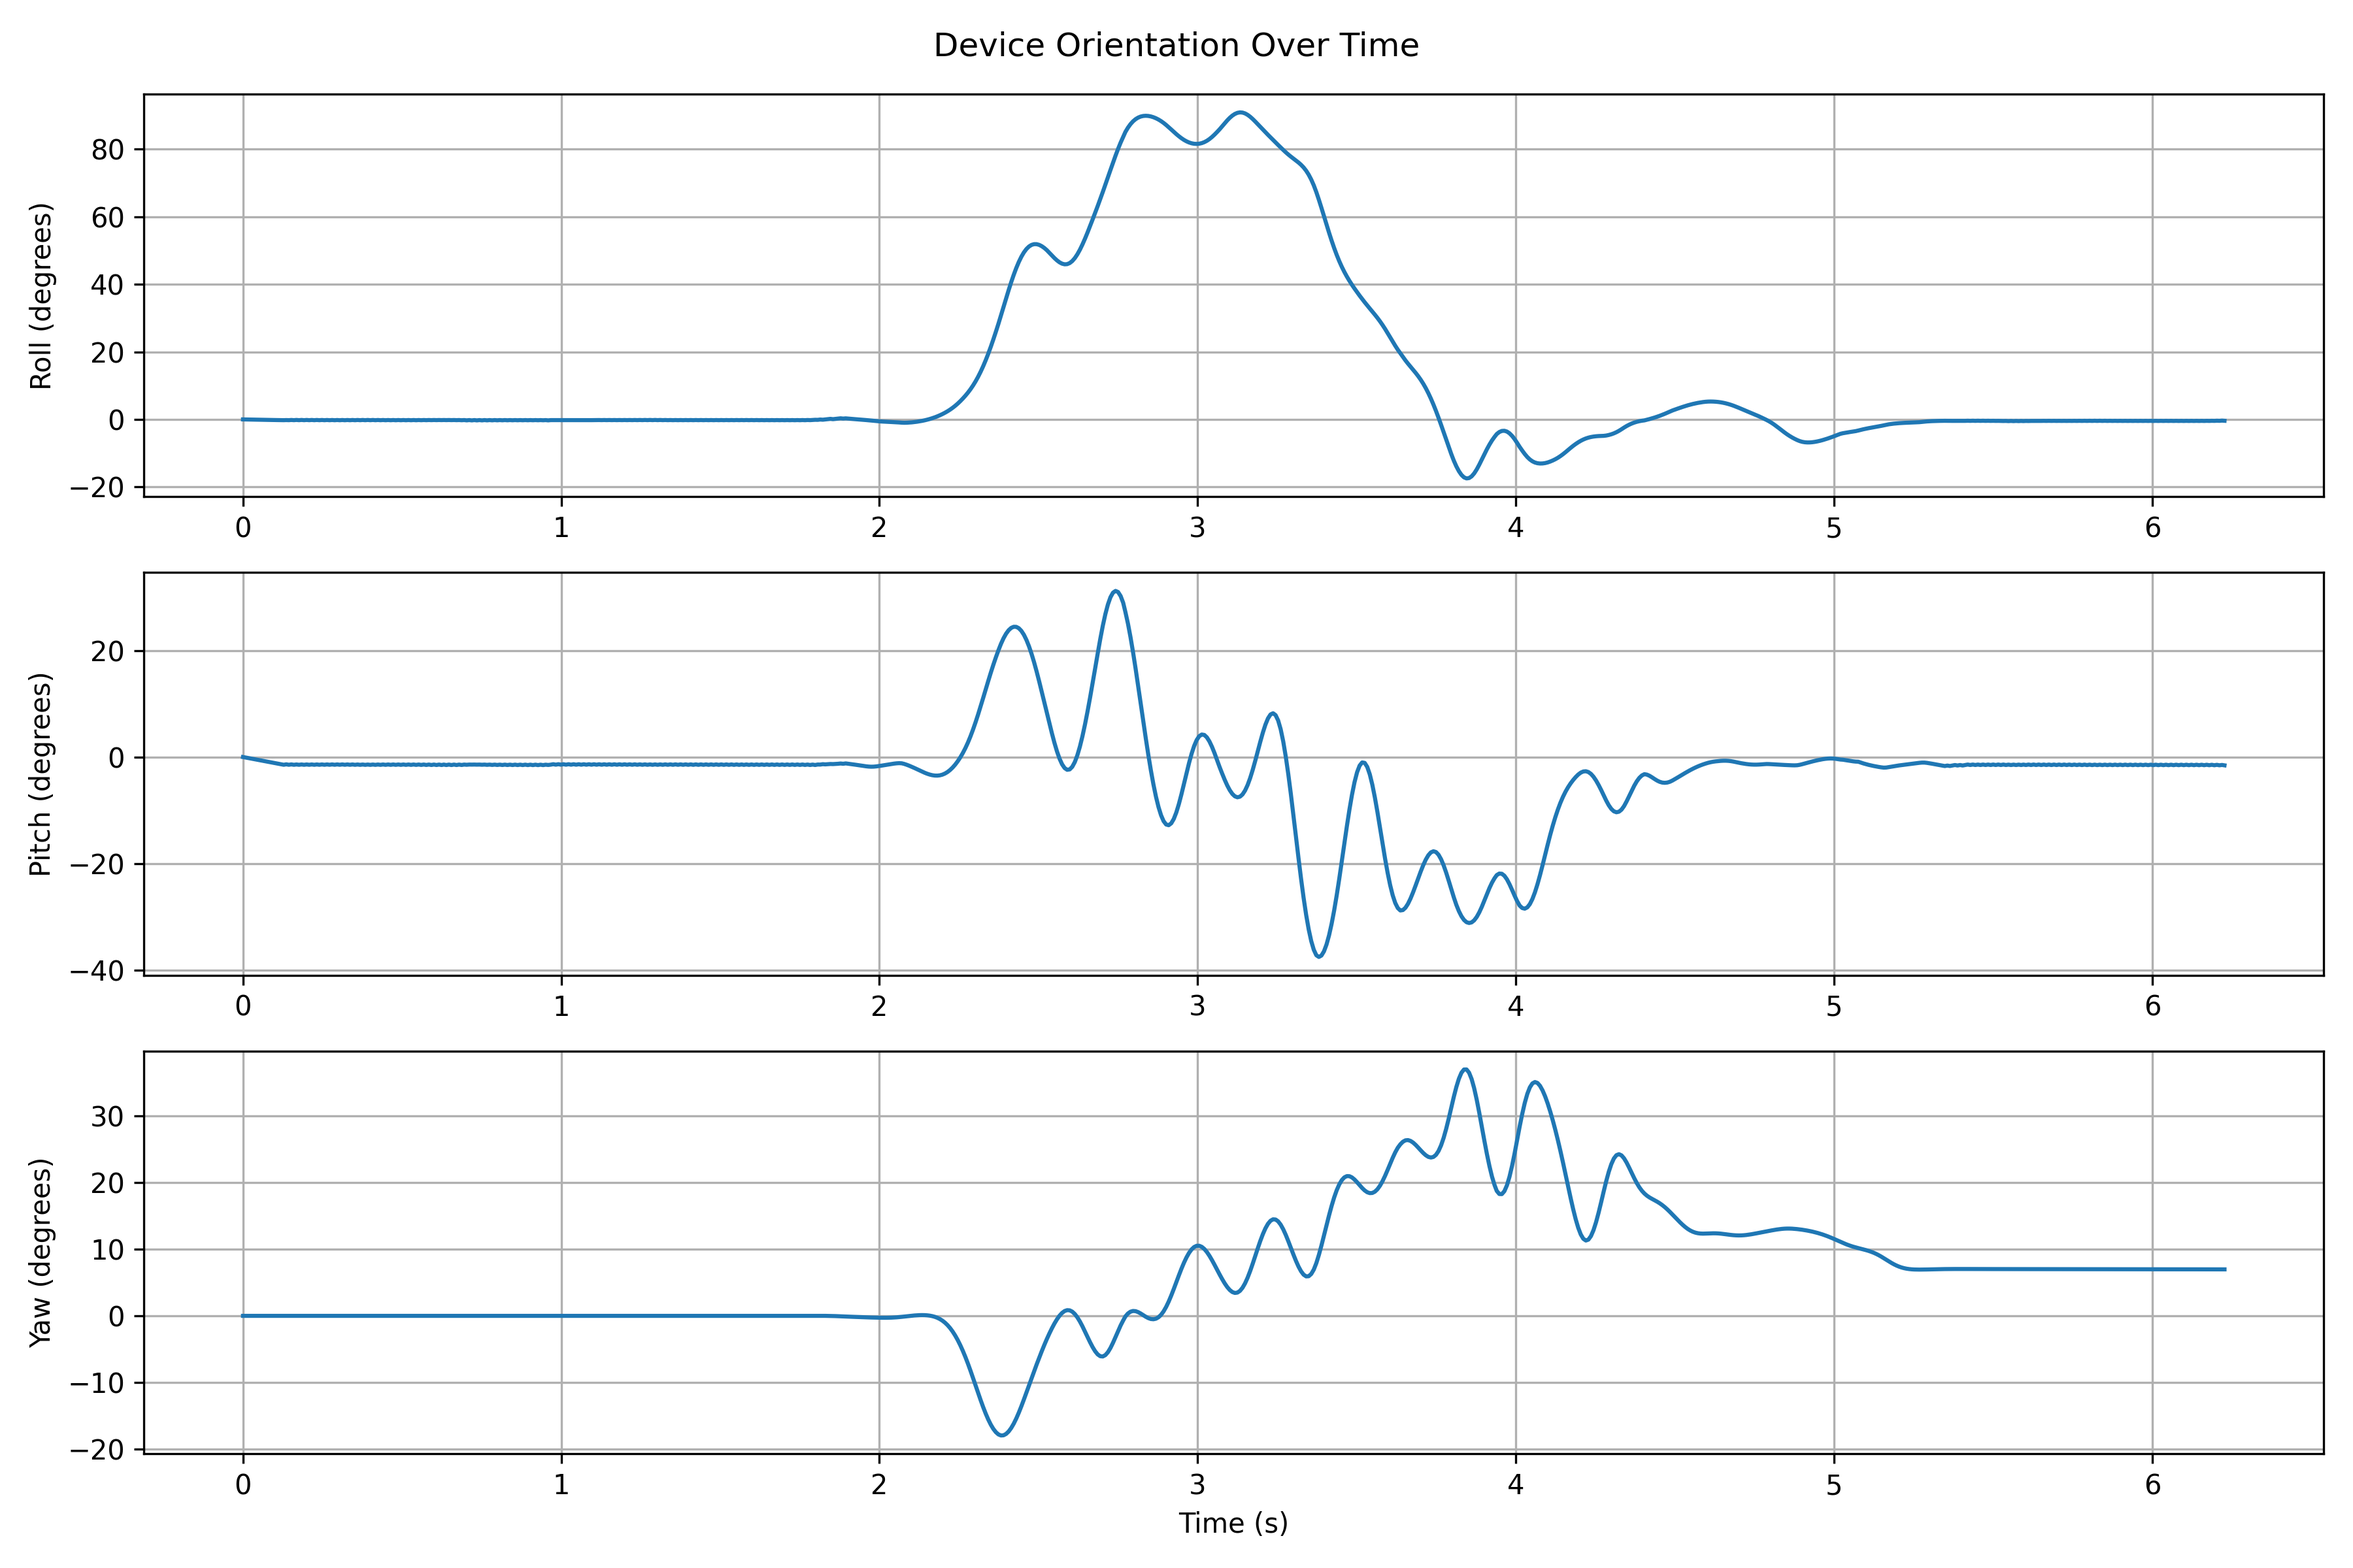
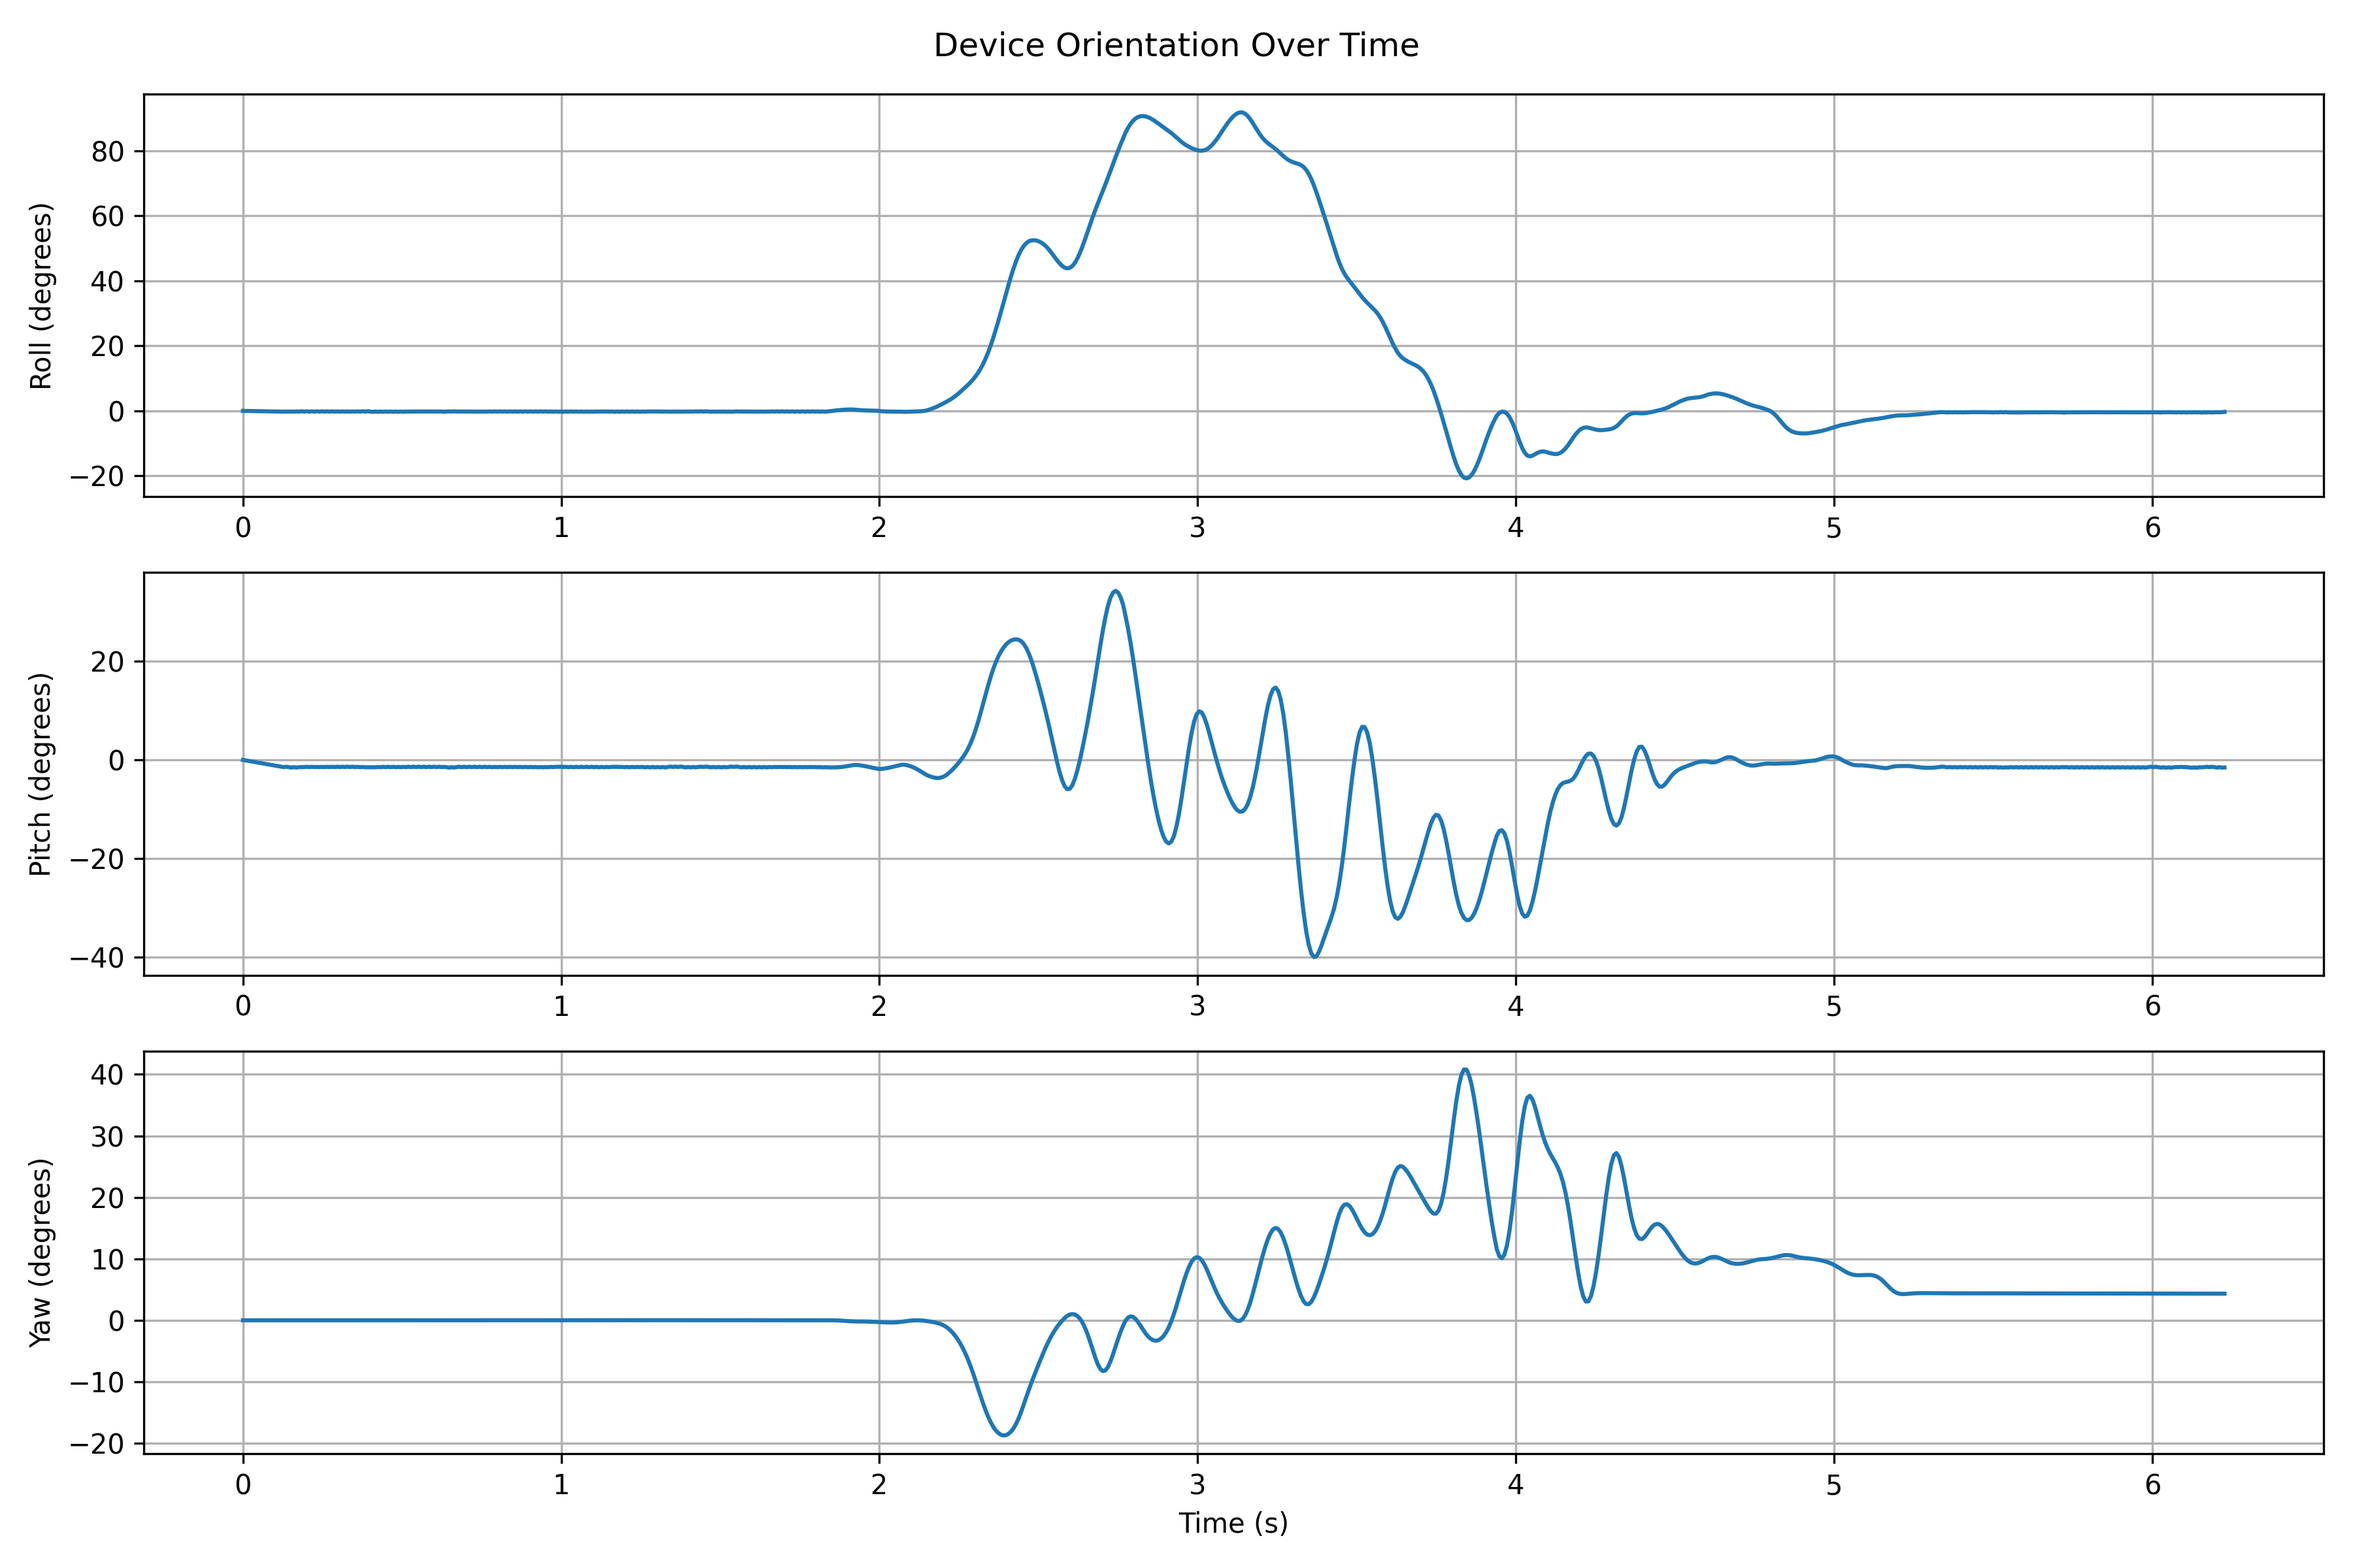
Motion Tracking-Erweiterung Aufgabe Filterung

diff --git a/IMU Motion Tracking Workshop/Strassl_imu_tracking_Filter_Comparison.py b/IMU Motion Tracking Workshop/Strassl_imu_tracking_Filter_Comparison.py
@@ -1,0 +1,198 @@
+#++++++++++++++++++++++++++++++++++++++
+#++++++++++++++++++++++++++++++++++++++
+# Part 2: Data Import and Preprocessing:
+#--------------------------------------
+# Load and Normalize the Dataset:
+import pandas as pd
+import numpy as np
+import matplotlib.pyplot as plt
+from scipy.signal import butter, filtfilt
+
+# Load separate files
+accel_df = pd.read_csv('c:/VIS3_GITHUP/visdat-course_my/IMU Motion Tracking Workshop/data/raw/Strassl_acceleration.csv')
+gyro_df = pd.read_csv('c:/VIS3_GITHUP/visdat-course_my/IMU Motion Tracking Workshop/data/raw/Strassl_gyroscope.csv')
+
+# MATLAB Mobile typically uses columns: Time, X, Y, Z
+# Rename for consistency
+accel_df.rename(columns={'timestamp': 'time', 'X': 'accel_x', 'Y': 'accel_y', 'Z': 'accel_z'}, inplace=True)
+gyro_df.rename(columns={'timestamp': 'time', 'X': 'gyro_x', 'Y': 'gyro_y', 'Z': 'gyro_z'}, inplace=True)
+
+#print(gyro_df['gyro_x'])
+
+# Merge on timestamp (or use nearest time if sampling rates differ slightly) Messdaten UNIX Format in ms
+df = pd.merge_asof(accel_df.sort_values('time'), 
+                   gyro_df.sort_values('time'), 
+                   on='time', 
+                   direction='nearest',
+                   tolerance=20)  # 20ms tolerance for sampling rate variations
+
+#print(df['gyro_x'])
+
+# Normalize time to start at zero and convert from ms to seconds
+df['time'] = (df['time'] - df['time'].iloc[0]) / 1000.0
+
+#--------------------------------------
+# Calculate sampling rate (use median for robustness against jitter):
+dt = df['time'].diff().median()
+sampling_rate = 1 / dt
+
+#++++++++++++++++++++++++++++++++++++++
+#++++++++++++++++++++++++++++++++++++++
+# Part 3: Signal Filtering:
+#--------------------------------------
+# Apply Low-Pass Butterworth Filter:
+from scipy.signal import butter, filtfilt
+
+def butter_lowpass_filter(data, cutoff, fs, order=2):
+    """Apply a Butterworth low-pass filter to the data."""
+    nyquist = 0.5 * fs
+    normal_cutoff = cutoff / nyquist
+    b, a = butter(order, normal_cutoff, btype='low', analog=False)
+    filtered_data = filtfilt(b, a, data)
+    return filtered_data
+
+
+#++++++++++++++++++++++++++++++++++++++
+#++++++++++++++++++++++++++++++++++++++
+# Part 9: Optional Extensions
+#--------------------------------------
+# Challenge: Filter Comparison:
+from scipy.signal import savgol_filter
+
+# Compare three filter types
+cutoffs = [3, 5, 10]  # Hz
+fig, axes = plt.subplots(1, 3, figsize=(18, 5))
+
+for idx, fc in enumerate(cutoffs):
+    # Apply Butterworth filter with different cutoffs
+    df[f'accel_x_f{fc}'] = butter_lowpass_filter(df['accel_x'], fc, sampling_rate)
+    
+    # Recalculate trajectory (simplified) xxxxxxxxxxxxxxxxxxxxxxxxxxxxxxxxxxxxxxxxxxxxxxxxxxxxxx
+    # Apply filter to accelerometer & gyroscope data
+    df['accel_x_filt'] = butter_lowpass_filter(df['accel_x'], fc, sampling_rate)
+    df['accel_y_filt'] = butter_lowpass_filter(df['accel_y'], fc, sampling_rate)
+    df['accel_z_filt'] = butter_lowpass_filter(df['accel_z'], fc, sampling_rate)
+    
+    # Optional: Filter gyroscope data as well
+    df['gyro_x_filt'] = butter_lowpass_filter(df['gyro_x'], fc, sampling_rate)
+    df['gyro_y_filt'] = butter_lowpass_filter(df['gyro_y'], fc, sampling_rate)
+    df['gyro_z_filt'] = butter_lowpass_filter(df['gyro_z'], fc, sampling_rate)
+        
+
+    #++++++++++++++++++++++++++++++++++++++
+    #++++++++++++++++++++++++++++++++++++++
+    # Part 4: Orientation Estimation with Madgwick Algorithm:
+    #--------------------------------------
+    # Estimate Orientation Using AHRS Library:
+    from ahrs.filters import Madgwick
+
+    # Initialize the Madgwick filter
+    madgwick = Madgwick(frequency=sampling_rate, gain=0.1)
+
+    # Prepare arrays for orientation storage
+    quaternions = np.zeros((len(df), 4))
+    quaternions[0] = np.array([1.0, 0.0, 0.0, 0.0])  # Initial orientation (identity)
+
+    # Iterate through sensor measurements
+    for i in range(1, len(df)):
+        # Extract accelerometer and gyroscope values
+        accel = df[['accel_x_filt', 'accel_y_filt', 'accel_z_filt']].iloc[i].values
+        gyro = df[['gyro_x_filt', 'gyro_y_filt', 'gyro_z_filt']].iloc[i].values
+        
+        # Normalize accelerometer (Madgwick uses it as direction reference)
+        accel_norm = accel / (np.linalg.norm(accel) + 1e-12)
+        
+        # Update orientation estimate
+        quaternions[i] = madgwick.updateIMU(quaternions[i-1], gyr=gyro, acc=accel_norm)
+
+
+    #++++++++++++++++++++++++++++++++++++++
+    #++++++++++++++++++++++++++++++++++++++
+    # Part 5: Transform Accelerations to Global Coordinates:
+    #--------------------------------------
+    # Apply Quaternion Rotation:
+    from scipy.spatial.transform import Rotation as R
+
+    # Create array for global accelerations
+    accel_global = np.zeros((len(df), 3))
+
+    for i in range(len(df)):
+        # Get local acceleration (in phone frame)
+        accel_local = df[['accel_x_filt', 'accel_y_filt', 'accel_z_filt']].iloc[i].values
+        
+        # Get rotation at this time step
+        q = quaternions[i]  # Our format: [w, x, y, z]
+        rotation = R.from_quat([q[1], q[2], q[3], q[0]])  # scipy expects [x, y, z, w]
+        
+        # Rotate acceleration to global frame
+        accel_global[i] = rotation.apply(accel_local)
+
+    # Store global accelerations
+    df['accel_global_x'] = accel_global[:, 0]
+    df['accel_global_y'] = accel_global[:, 1]
+    df['accel_global_z'] = accel_global[:, 2]
+
+    #--------------------------------------
+    # Remove Gravity from Global Accelerations:
+    # Gravity is approximately 9.81 m/s² in the negative Z direction
+    # Estimate gravity from the mean during stationary periods
+    baseline_global = df.iloc[:int(2*sampling_rate)]  # First 2 seconds
+    gravity_global = baseline_global[['accel_global_x', 'accel_global_y', 'accel_global_z']].mean()
+
+    # Remove gravity
+    df['accel_motion_x'] = df['accel_global_x'] - gravity_global['accel_global_x']
+    df['accel_motion_y'] = df['accel_global_y'] - gravity_global['accel_global_y']
+    df['accel_motion_z'] = df['accel_global_z'] - gravity_global['accel_global_z']
+
+    #++++++++++++++++++++++++++++++++++++++
+    #++++++++++++++++++++++++++++++++++++++
+    # Part 6: Numerical Integration to Reconstruct Trajectory:
+    #--------------------------------------
+    # Integrate to Obtain Velocity and Position:
+    # Calculate time step for each sample
+    dt_array = df['time'].diff().fillna(0).values
+
+    # Initialize velocity and position arrays
+    velocity = np.zeros((len(df), 3))
+    position = np.zeros((len(df), 3))
+
+    # Extract acceleration arrays for efficient indexing
+    accel_x = df['accel_motion_x'].values
+    accel_y = df['accel_motion_y'].values
+    accel_z = df['accel_motion_z'].values
+
+    # Numerical integration using trapezoidal rule
+    for i in range(1, len(df)):
+        # First integration: Acceleration → Velocity (trapezoidal rule)
+        accel_current = np.array([accel_x[i], accel_y[i], accel_z[i]])
+        accel_previous = np.array([accel_x[i-1], accel_y[i-1], accel_z[i-1]])
+        velocity[i] = velocity[i-1] + 0.5 * (accel_previous + accel_current) * dt_array[i]
+        
+        # Second integration: Velocity → Position (trapezoidal rule)
+        position[i] = position[i-1] + 0.5 * (velocity[i-1] + velocity[i]) * dt_array[i]
+
+    # Store results
+    df['vel_x'] = velocity[:, 0]
+    df['vel_y'] = velocity[:, 1]
+    df['vel_z'] = velocity[:, 2]
+
+    df['pos_x'] = position[:, 0]
+    df['pos_y'] = position[:, 1]
+    df['pos_z'] = position[:, 2]
+    # Ende Einschub xxxxxxxxxxxxxxxxxxxxxxxxxxxxxxxxxxxxxxxxxxxxxxxxxxxxxxxxxxxxxxxxxxxxxxxxxxx
+    
+    axes[idx].plot(df['pos_x'], df['pos_y'])
+    axes[idx].set_title(f'Trajectory with {fc} Hz Cutoff')
+    axes[idx].scatter(df['pos_x'].iloc[0], df['pos_y'].iloc[0], 
+            c='green', s=200, marker='o', label='Start', zorder=5)
+    axes[idx].scatter(df['pos_x'].iloc[-1], df['pos_y'].iloc[-1], 
+                c='red', s=200, marker='X', label='End', zorder=5)
+    axes[idx].set_xlabel('X (m)')
+    axes[idx].set_ylabel('Y (m)')
+    axes[idx].axis('equal')
+    axes[idx].grid(True)
+    axes[idx].legend()
+
+plt.tight_layout()
+plt.savefig('IMU Motion Tracking Workshop/figures/09_different_filtering.png', dpi=300)
+plt.show()

diff --git a/IMU Motion Tracking Workshop/Strassl_imu_tracking.py b/IMU Motion Tracking Workshop/Strassl_imu_tracking.py
@@ -98,7 +98,7 @@ def butter_lowpass_filter(data, cutoff, fs, order=2):
     return filtered_data
 
 # Filter parameters
-cutoff_frequency = 5  # Hz (adjust based on your movement speed)
+cutoff_frequency = 10  # Hz (adjust based on your movement speed)
 fs = sampling_rate
 
 # Apply filter to accelerometer data
@@ -438,49 +438,3 @@ ax2.grid(True)
 plt.tight_layout()
 plt.savefig('IMU Motion Tracking Workshop/figures/08_zupt_comparison.png', dpi=300)
 plt.show()
-
-#--------------------------------------
-# Challenge: Filter Comparison:
-from scipy.signal import savgol_filter
-
-# Compare three filter types
-cutoffs = [3, 5, 10]  # Hz
-fig, axes = plt.subplots(1, 3, figsize=(18, 5))
-
-for idx, fc in enumerate(cutoffs):
-    # Apply Butterworth filter with different cutoffs
-    df[f'accel_x_f{fc}'] = butter_lowpass_filter(df['accel_x'], fc, sampling_rate)
-    
-    # Recalculate trajectory (simplified - you would repeat full pipeline)
-    # ... orientation, transformation, integration ...
-    
-    axes[idx].plot(df['pos_x'], df['pos_y'])
-    axes[idx].set_title(f'Trajectory with {fc} Hz Cutoff')
-    axes[idx].set_xlabel('X (m)')
-    axes[idx].set_ylabel('Y (m)')
-    axes[idx].axis('equal')
-    axes[idx].grid(True)
-
-plt.tight_layout()
-plt.savefig('IMU Motion Tracking Workshop/figures/09_different_filtering.png', dpi=300)
-plt.show()
-
-#--------------------------------------
-# Challenge: Sensor Bias Estimation:
-# Use first stationary period to estimate bias
-stationary_period = df[df['time'] <= 2.0]
-
-# Estimate acceleration bias
-accel_bias = stationary_period[['accel_x_filt', 'accel_y_filt', 'accel_z_filt']].mean()
-print(f"Estimated acceleration bias: {accel_bias.values}")
-
-# Estimate gyroscope bias
-gyro_bias = stationary_period[['gyro_x_filt', 'gyro_y_filt', 'gyro_z_filt']].mean()
-print(f"Estimated gyroscope bias: {gyro_bias.values}")
-
-# Apply bias correction
-df['accel_x_corrected'] = df['accel_x_filt'] - accel_bias['accel_x_filt']
-df['accel_y_corrected'] = df['accel_y_filt'] - accel_bias['accel_y_filt']
-df['accel_z_corrected'] = df['accel_z_filt'] - accel_bias['accel_z_filt']
-
-# Repeat full pipeline with corrected data and compare results

diff --git a/IMU Motion Tracking Workshop/README.md b/IMU Motion Tracking Workshop/README.md
@@ -13,12 +13,13 @@
 Ist aufgrund der Bewegung mit der Hand in der Luft und keinem passenden Messgerät nicht möglich gewesen.
 
 ### Berechnete Entfernung
-Berechnet wurde eine Entfernung von **1.49 m**
+Berechnet wurde eine Entfernung von **1.37 m**
 
 ## Beobachtungen (über Drift und Genauigkeit)
 - Allgemein ist festzustellen, dass der Drift am Ende höher wird wenn die Messung länger dauert (>10 sek.)
 - Die Genauigkeit ist in der X-& Y-Achse recht gut. Denn in der Abb.06 ist zu sehen, dass die Distanz in der XY Ebene sehr gut mit der gemessen Distanz (0,4m) zusammenpasst.
 - Dem Gegenüber ist die Genauigkeit in der Z-Achse sehr schlecht. Diese Ungenauigkeit kann auf das Driften an der Z-Achse erklärt werden. Dies ist in der Abb.7 gut zu sehen, da sich der Endpunkt in Z-Achse -1.5m unter dem Anfangspunk befindet.
+- Sehr interessant ist wie stark sich die Filterung (anhand Frequenz) auswirkt. Dies ist in Abb.09 sehr gut zu erkennen. Daher ist eine Filterung bis 10 Hz am besten geeignet, um die best passende Trajectorie zu bekommen.
 
 ## Herausforderungen und der Lösung
 - Am Anfang bestand gleich die Herausforderung , dass das UNIX Zeitformat richtig verarbeitet werden muss.
